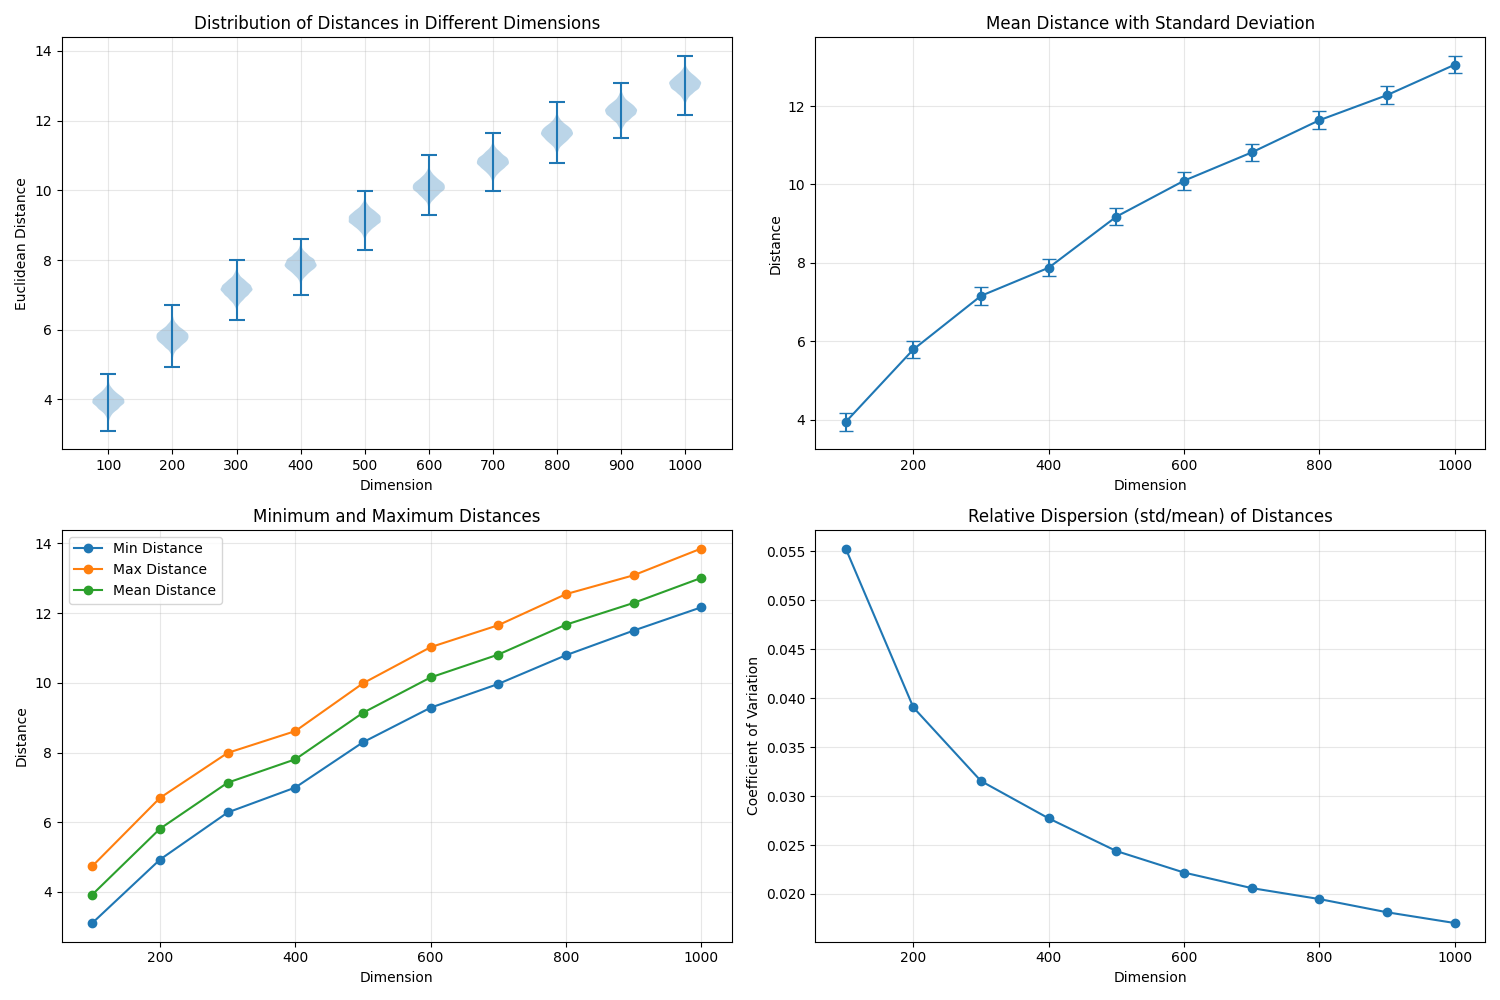
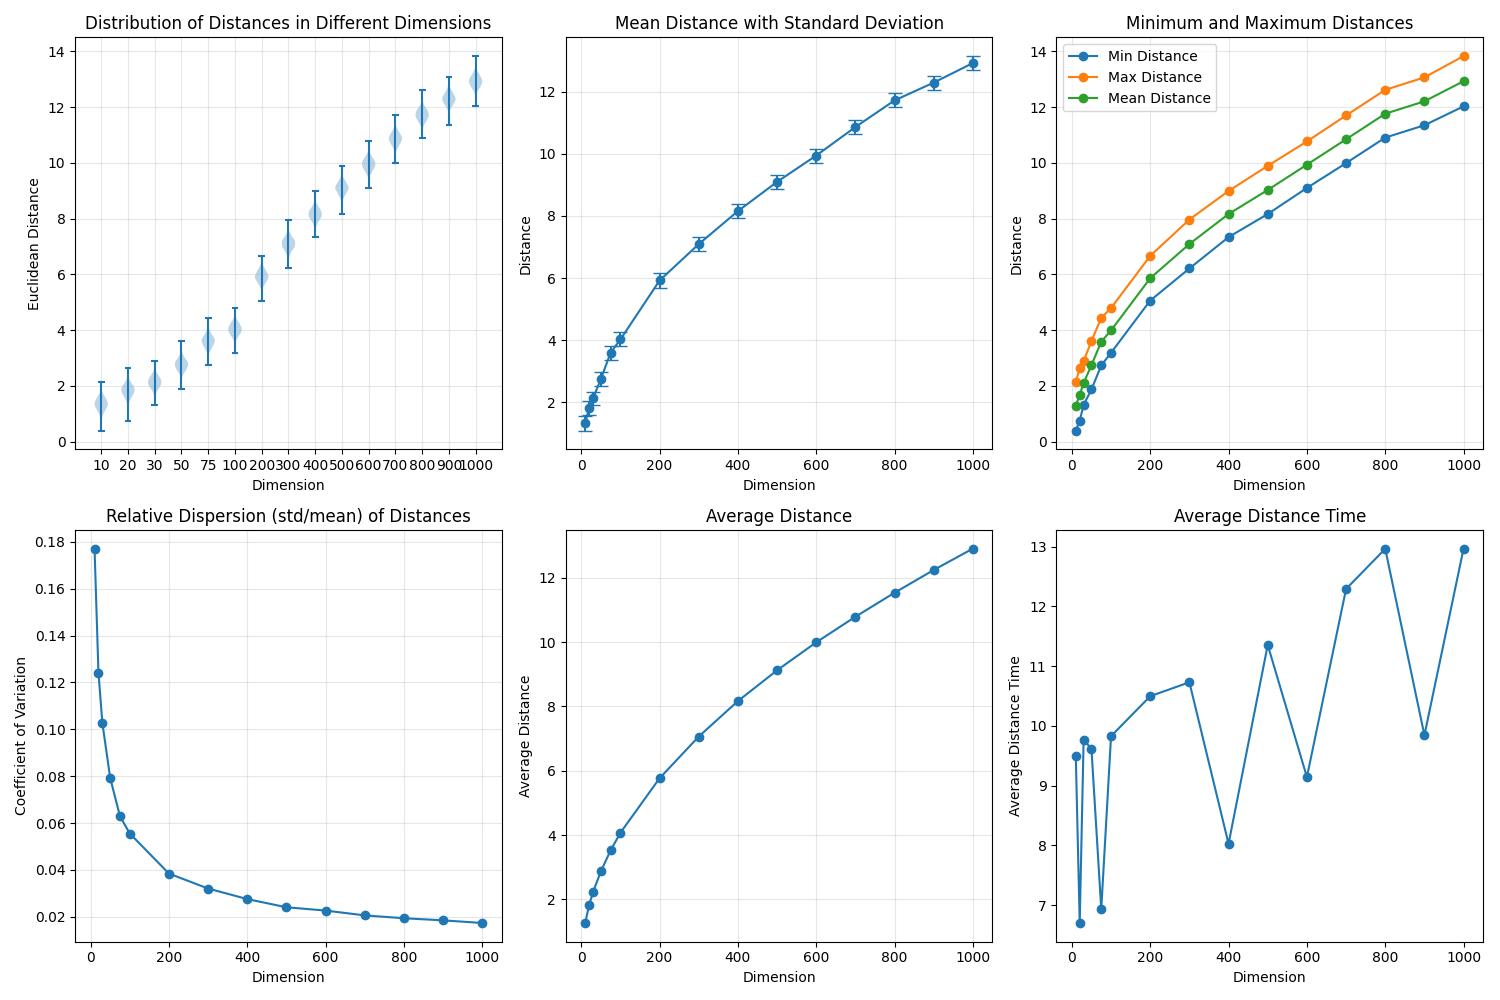
Avg Distance computed

diff --git a/ann-curse-of-dimensionality/main.py b/ann-curse-of-dimensionality/main.py
@@ -1,5 +1,6 @@
 import numpy as np
 import matplotlib.pyplot as plt
+import time
 
 def generate_points(num_points, dim):
     return np.random.random((num_points, dim))
@@ -7,11 +8,21 @@ def generate_points(num_points, dim):
 def compute_distances(points, query_point):
     return np.sqrt(np.sum((points - query_point)**2, axis=1))
 
+def compute_avg_distance(points):
+    total_distance = 0
+    for i in points[:2000]:
+        for j in points[:2000]:
+            total_distance += np.sqrt(np.sum((i - j)**2))
+    return total_distance / (2000 * 2000)
+
+
 num_points = 10000
-dimensions = [100, 200, 300, 400, 500, 600, 700, 800, 900, 1000]
+dimensions = [10, 20, 30, 50, 75, 100, 200, 300, 400, 500, 600, 700, 800, 900, 1000]
 results = []
 
 for dim in dimensions:
+    start_time = time.time()
+    print(f"Processing dimension: {dim}")
     dim = int(dim)
     points = generate_points(num_points, dim)
     query_point = np.random.random(dim)
@@ -24,13 +35,15 @@ for dim in dimensions:
         'mean_distance': np.mean(distances),
         'std_distance': np.std(distances),
         'cv': np.std(distances) / np.mean(distances),
-        'distances': distances
+        'distances': distances,
+        'avg_distance': compute_avg_distance(points),
+        'avg_distance_time': time.time() - start_time
     })
 
 plt.figure(figsize=(15, 10))
 
 # Plot 1: Distance distributions using violin plots
-plt.subplot(2, 2, 1)
+plt.subplot(2, 3, 1)
 violin_data = [result['distances'] for result in results]
 plt.violinplot(violin_data)
 plt.xticks(range(1, len(dimensions) + 1), dimensions)
@@ -40,7 +53,7 @@ plt.title('Distribution of Distances in Different Dimensions')
 plt.grid(True, alpha=0.3)
 
 # Plot 2: Mean and std deviation of distances
-plt.subplot(2, 2, 2)
+plt.subplot(2, 3, 2)
 dims = [result['dimension'] for result in results]
 means = [result['mean_distance'] for result in results]
 stds = [result['std_distance'] for result in results]
@@ -51,7 +64,7 @@ plt.title('Mean Distance with Standard Deviation')
 plt.grid(True, alpha=0.3)
 
 # Plot 3: Min and max distances
-plt.subplot(2, 2, 3)
+plt.subplot(2, 3, 3)
 min_dists = [result['min_distance'] for result in results]
 max_dists = [result['max_distance'] for result in results]
 plt.plot(dims, min_dists, 'o-', label='Min Distance')
@@ -64,7 +77,7 @@ plt.legend()
 plt.grid(True, alpha=0.3)
 
 # Plot 4: Coefficient of variation (std/mean)
-plt.subplot(2, 2, 4)
+plt.subplot(2, 3, 4)
 cvs = [result['cv'] for result in results]
 plt.plot(dims, cvs, 'o-')
 plt.xlabel('Dimension')
@@ -72,11 +85,28 @@ plt.ylabel('Coefficient of Variation')
 plt.title('Relative Dispersion (std/mean) of Distances')
 plt.grid(True, alpha=0.3)
 
+# Plot 5: Average distance
+plt.subplot(2, 3, 5)
+avg_dists = [result['avg_distance'] for result in results]
+plt.plot(dims, avg_dists, 'o-')
+plt.xlabel('Dimension')
+plt.ylabel('Average Distance')
+plt.title('Average Distance')
+plt.grid(True, alpha=0.3)
+
+# Plot 6: Average distance time
+plt.subplot(2, 3, 6)
+avg_dist_times = [result['avg_distance_time'] for result in results]
+plt.plot(dims, avg_dist_times, 'o-')
+plt.xlabel('Dimension')
+plt.ylabel('Average Distance Time')
+plt.title('Average Distance Time')
+
 plt.tight_layout()
 plt.savefig("curse-of-dimensionality.png")
 
 print("\nSummary Statistics:")
-print(f"{'Dimension':<10} {'Min':<10} {'Max':<10} {'Mean':<10} {'Std':<10} {'CV':<10}")
-print("-" * 60)
+print(f"{'Dimension':<10} {'Min':<10} {'Max':<10} {'Mean':<10} {'Std':<10} {'CV':<10} {'Avg Distance':<10} {'Avg Distance Time':<10}")
+print("-" * 80)
 for result in results:
-    print(f"{result['dimension']:<10} {result['min_distance']:.4f}     {result['max_distance']:.4f}     {result['mean_distance']:.4f}     {result['std_distance']:.4f}     {result['cv']:.4f}")
+    print(f"{result['dimension']:<10} {result['min_distance']:.4f}     {result['max_distance']:.4f}     {result['mean_distance']:.4f}     {result['std_distance']:.4f}     {result['cv']:.4f}     {result['avg_distance']:.4f}     {result['avg_distance_time']:.4f}")

diff --git a/ann-curse-of-dimensionality/README.md b/ann-curse-of-dimensionality/README.md
@@ -1,4 +1,4 @@
-Distance Concentration in High Dimensionality of Data
+Curse of Dimensionality
 ===
 
 Creates 10,000 points in 100 to 1000-dimensional space with random
@@ -8,4 +8,21 @@ computes Euclidean distances, and shows how narrowly clustered those distances a
 ```
 $ pip install -r requirements.txt
 $ make run
+Dimension  Min        Max        Mean       Std        CV         Avg Distance Avg Distance Time
+--------------------------------------------------------------------------------
+10         0.3978     2.1480     1.3351     0.2365     0.1772     1.2645     9.4930
+20         0.7510     2.6233     1.8324     0.2276     0.1242     1.8154     6.7022
+30         1.3176     2.8822     2.1288     0.2186     0.1027     2.2230     9.7665
+50         1.8696     3.6111     2.7542     0.2181     0.0792     2.8698     9.6173
+75         2.7318     4.4341     3.6009     0.2263     0.0628     3.5233     6.9311
+100        3.1859     4.7898     4.0277     0.2236     0.0555     4.0708     9.8286
+200        5.0583     6.6617     5.9241     0.2276     0.0384     5.7665     10.4975
+300        6.2089     7.9634     7.0949     0.2272     0.0320     7.0628     10.7304
+400        7.3346     8.9897     8.1567     0.2245     0.0275     8.1665     8.0274
+500        8.1615     9.8887     9.0979     0.2186     0.0240     9.1232     11.3544
+600        9.0977     10.7670     9.9445     0.2250     0.0226     9.9935     9.1437
+700        9.9887     11.6974     10.8627     0.2234     0.0206     10.7890     12.2922
+800        10.9039     12.6156     11.7190     0.2267     0.0193     11.5360     12.9638
+900        11.3469     13.0641     12.2918     0.2267     0.0184     12.2438     9.8445
+1000       12.0246     13.8285     12.9207     0.2238     0.0173     12.9086     12.9681
 ```
